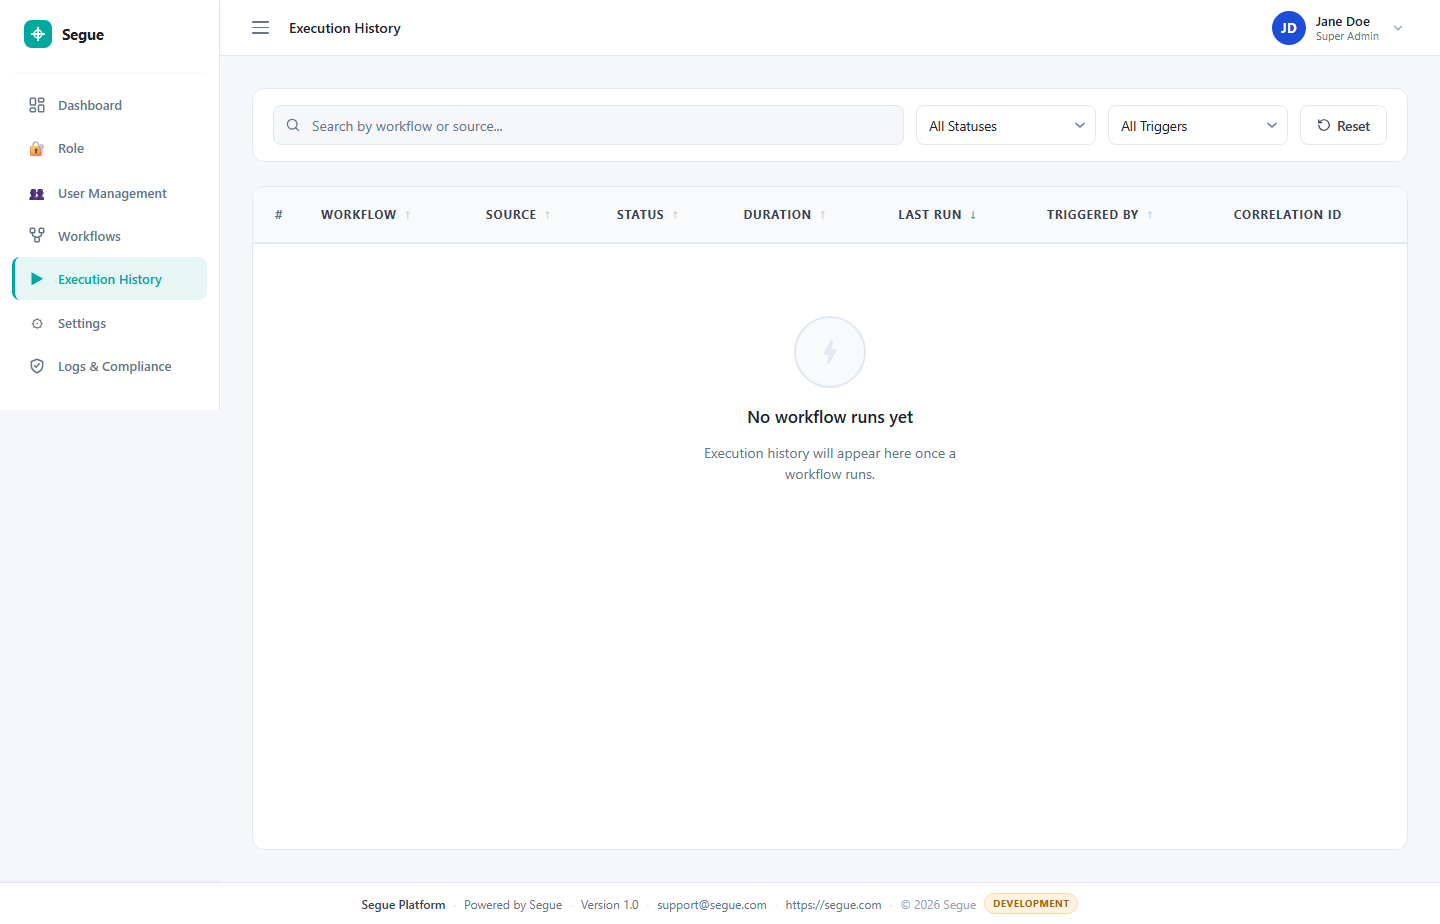
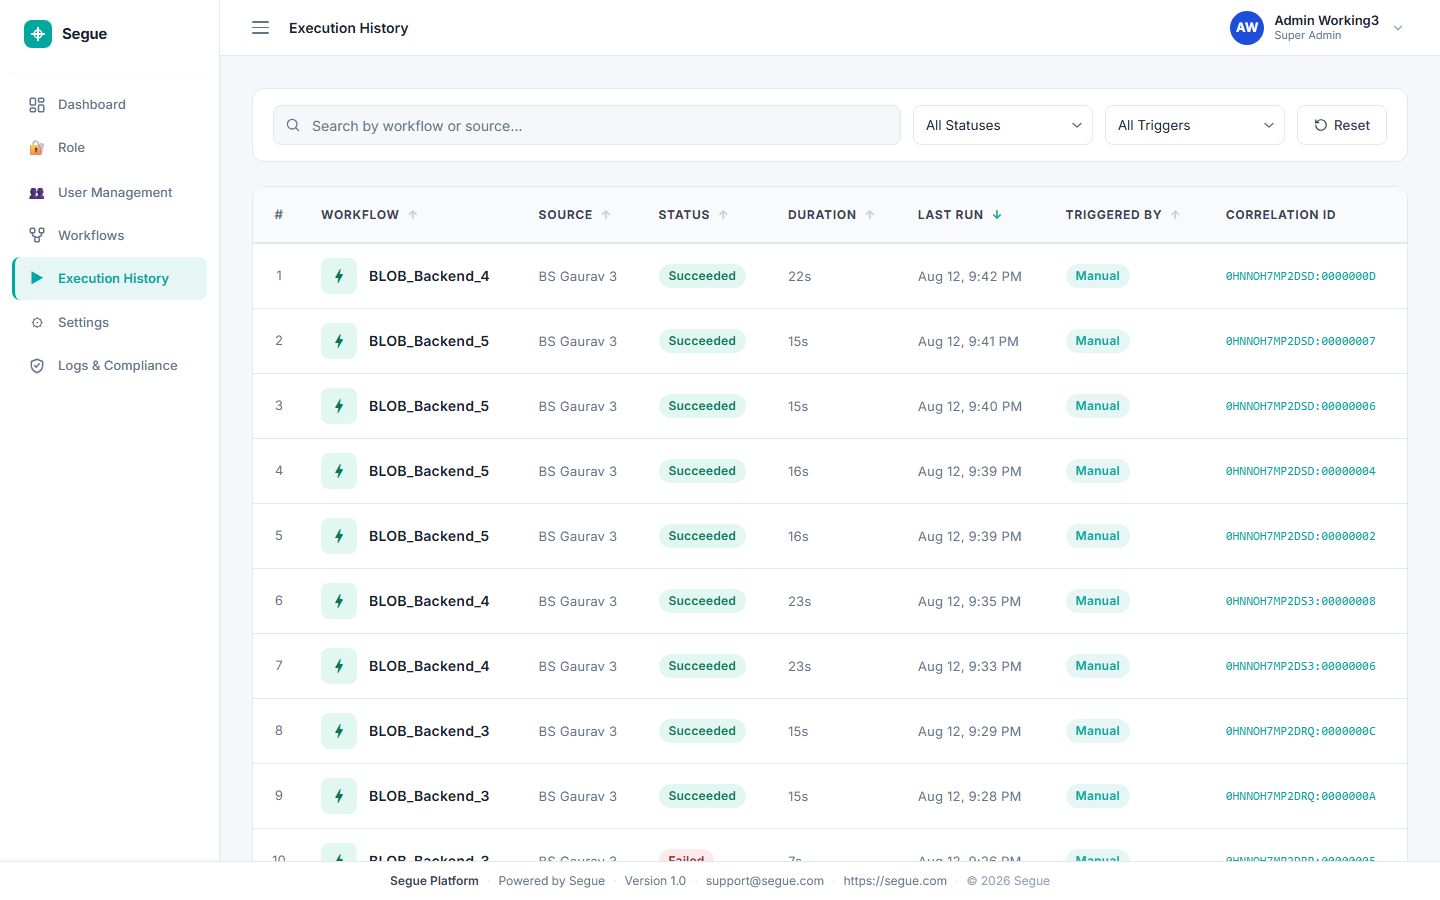
Expand user manual: table selection, two mapping methods, permissions
- Document picking an existing database table vs. creating a new one
  from the field-mapping canvas, with real screenshots of both flows.
- Clarify drag-and-drop and the Mapping list accordion as two
  equivalent ways to build a field mapping.
- Add a Roles & Permissions walkthrough of the per-role permission
  grid (Access Control / Workflows / Platform groups).
- Update the CSV destination chapter for the Email + Download link
  only delivery modes.
- Swap several empty-state screenshots for real populated data.

diff --git a/Documents/User-Manual.html b/Documents/User-Manual.html
@@ -512,6 +512,42 @@
     <li><strong>Load JSON payload</strong> — paste a real example FHIR record so the source tree reflects fields your actual data really uses, not just the generic shape.</li>
   </ul>
 
+  <h3 class="substep">Adding another table to map into</h3>
+  <p class="substep-sub">
+    The primary table for a data group is attached automatically (e.g. <code>dbo.Patient</code> for the
+    Patient group). If you need a <em>second</em> table — say, a child table for a repeating field — you
+    have two options, both under <strong>+ Add a table from your database…</strong> in the top-right of
+    the canvas.
+  </p>
+  <div class="shot-card">
+    <div class="shot-wrap">
+      <img src="user-manual-screenshots/57-add-existing-table-picker.png" alt="Add a table from your database picker, listing an existing table">
+    </div>
+    <p class="shot-caption">
+      <strong>Pick an existing table.</strong> Click <strong>+ Add a table from your database…</strong> to
+      open a searchable list of every other table Segue already found in your connected database (here,
+      <code>dbo.PatientObservation</code>) — pick one to bring it onto the canvas alongside the primary table.
+    </p>
+  </div>
+  <div class="shot-card">
+    <div class="shot-wrap">
+      <img src="user-manual-screenshots/58-existing-table-added.png" alt="Existing table added to the canvas as a second card">
+    </div>
+    <p class="shot-caption">The picked table appears as its own card, with its real columns already known — ready to map into immediately.</p>
+  </div>
+  <div class="shot-card">
+    <div class="shot-wrap">
+      <img src="user-manual-screenshots/59-create-new-table-modal.png" alt="Create a new destination table modal">
+    </div>
+    <p class="shot-caption">
+      <strong>Or create a brand-new table.</strong> From the same menu, choose <strong>Create a new
+      table…</strong>. Give it a name, say whether it's a standalone table or a <em>child of another
+      table already on the canvas</em> (Segue then adds the foreign-key column for you), and define its
+      starting columns. Like adding a column, nothing is created in the real database until you finish the
+      wizard.
+    </p>
+  </div>
+
   <h3 class="substep">Adding a new column</h3>
   <p class="substep-sub">Click <strong>+ Add column</strong> on the table panel.</p>
   <div class="shot-card">
@@ -532,30 +568,54 @@
     the real schema until then, so it's safe to experiment while mapping.
   </div>
 
+  <h3 class="substep">Two ways to build a mapping</h3>
+  <p class="substep-sub">
+    Every connection you draw between a source field and a destination column is called a
+    <strong>mapping</strong>. Segue gives you two ways to create one — use whichever feels more natural,
+    they end up creating the exact same kind of rule.
+  </p>
+  <div class="two-col">
+    <div class="shot-card">
+      <div class="shot-wrap">
+        <img src="user-manual-screenshots/25-array-mapping-created.png" alt="A field dragged from the payload tree onto a column">
+      </div>
+      <p class="shot-caption">
+        <strong>Option 1 — drag and drop.</strong> Drag a field (or a whole array group) straight from
+        the Payload tree on the left onto a column in the Table panel on the right. A dashed line
+        confirms the connection. Fastest for simple, one-to-one mappings and for the whole-array-to-JSON
+        mode described below.
+      </p>
+    </div>
+    <div class="shot-card">
+      <div class="shot-wrap">
+        <img src="user-manual-screenshots/32-mapping-list-two-rows.png" alt="Mapping list accordion showing mapped fields in a table">
+      </div>
+      <p class="shot-caption">
+        <strong>Option 2 — the Mapping list.</strong> Click the <strong>Mapping list</strong> bar at the
+        bottom of the canvas to expand a plain table of every rule created so far — source field(s), mode,
+        destination column, and instance selection, all in one place. No dragging required, and it's the
+        easiest way to review everything you've mapped at a glance.
+      </p>
+    </div>
+  </div>
+  <p class="substep-sub">
+    Click <strong>+ Add mapping</strong> inside that same accordion to build a rule from dropdowns instead
+    of dragging — the better choice when you want precise control over which array item to use, or want to
+    combine several array values into one field (see below):
+  </p>
+
   <h3 class="substep">Turning a repeating field into one column — three ways</h3>
   <p class="substep-sub">
     FHIR records are full of arrays (a list of "based on" references, several categories, multiple
     components). A single SQL column can't hold a list directly, so Segue gives you three ways to
-    flatten one down. Which one you want depends on the answer to: <em>"do I need every item, or just
-    one?"</em>
+    flatten one down, available from either method above. Which one you want depends on the answer to:
+    <em>"do I need every item, or just one?"</em>
   </p>
-
-  <div class="two-col">
-    <div class="shot-card">
-      <div class="shot-wrap">
-        <img src="user-manual-screenshots/25-array-mapping-created.png" alt="Whole array mapped as JSON">
-      </div>
-      <p class="shot-caption"><strong>Array → JSON.</strong> Drag the whole array group (e.g. <code>BasedOn</code>) straight onto a column — Segue tags it <strong>JSON</strong> and stores the entire list as one JSON-text string. Best when you need every item and every sub-field, and don't mind reading it back with a JSON query later.</p>
-    </div>
-    <div class="shot-card">
-      <div class="shot-wrap">
-        <img src="user-manual-screenshots/32-mapping-list-two-rows.png" alt="Mapping list with two rows">
-      </div>
-      <p class="shot-caption">The <strong>Mapping list</strong> at the bottom of the canvas is the plain-English record of every rule you've created — source field(s), mode, destination column, and instance selection, all in one table.</p>
-    </div>
-  </div>
-
-  <p class="substep-sub">Click <strong>+ Add mapping</strong> to build a rule by hand instead of dragging:</p>
+  <ul class="plain-legend">
+    <li><strong>Array → JSON</strong> — drag the whole array group onto a column (see Option 1 above); Segue tags it <strong>JSON</strong> and stores the entire list as one JSON-text string. Best when you need every item and every sub-field, and don't mind reading it back with a JSON query later.</li>
+    <li><strong>Array → single record</strong> — map one specific leaf field with Instance set to <em>First</em>, <em>Nth</em>, or <em>Criteria</em> (see the Instance Selection table below). Only that one item is used.</li>
+    <li><strong>Array → comma-separated</strong> — map a leaf field with Instance set to <em>All records</em> and check <strong>combine as one delimited row</strong>. Every value is joined into one string in a single column.</li>
+  </ul>
   <div class="shot-card">
     <div class="shot-wrap">
       <img src="user-manual-screenshots/30-add-mapping-instance-options.png" alt="Add mapping form with Instance dropdown open">
@@ -614,43 +674,59 @@
   </p>
   <div class="shot-card">
     <div class="shot-wrap">
-      <img src="user-manual-screenshots/35-csv-destination-step1.png" alt="CSV configuration form">
+      <img src="user-manual-screenshots/35-csv-destination-step1.png" alt="CSV configuration form, Download link mode">
       <div class="badge" style="left:17.6%; top:31.8%;">1</div>
       <div class="badge" style="left:17.6%; top:43%;">2</div>
       <div class="badge" style="left:52.6%; top:43%;">3</div>
-      <div class="badge" style="left:17.6%; top:55.75%;">4</div>
-      <div class="badge" style="left:17.6%; top:64.1%;">5</div>
-      <div class="badge" style="left:52.6%; top:64.1%;">6</div>
+      <div class="badge" style="left:17.6%; top:51.4%;">4</div>
+      <div class="badge" style="left:17.6%; top:59.7%;">5</div>
+      <div class="badge" style="left:52.6%; top:59.7%;">6</div>
+      <div class="badge" style="left:17.6%; top:68%;">7</div>
     </div>
   </div>
   <table class="legend">
     <tr><th class="num">#</th><th>Field</th><th>What it is</th></tr>
     <tr><td class="num"><span class="num-badge">1</span></td><td class="field-name">Existing CSV connection</td><td class="field-desc">Reuse a previously configured CSV destination instead of starting over.</td></tr>
     <tr><td class="num"><span class="num-badge">2</span></td><td class="field-name">Destination name</td><td class="field-desc">A label for this connection.</td></tr>
-    <tr><td class="num"><span class="num-badge">3</span></td><td class="field-name">Delivery mode</td><td class="field-desc">How the file reaches you: <em>Download</em> (only works when triggered manually — not on a schedule), <em>Email</em>, <em>SFTP</em>, or <em>Download link</em>.</td></tr>
+    <tr><td class="num"><span class="num-badge">3</span></td><td class="field-name">Delivery mode</td><td class="field-desc">How the file reaches you — only two choices are enabled in this deployment: <strong>Email</strong> or <strong>Download link</strong> (see below for what each means).</td></tr>
     <tr><td class="num"><span class="num-badge">4</span></td><td class="field-name">File name pattern</td><td class="field-desc">A template for the generated file's name — <code>{resource}</code> and date/time placeholders get filled in automatically, e.g. <code>Patient_20260813_113000.csv</code>.</td></tr>
     <tr><td class="num"><span class="num-badge">5</span></td><td class="field-name">Delimiter</td><td class="field-desc">Comma is the CSV default — change it if whatever will read this file expects something else (tab, semicolon, pipe).</td></tr>
     <tr><td class="num"><span class="num-badge">6</span></td><td class="field-name">Encoding</td><td class="field-desc">UTF-8 covers virtually every case, including non-English characters in names/addresses.</td></tr>
+    <tr><td class="num"><span class="num-badge">7</span></td><td class="field-name">Link expiry (minutes)</td><td class="field-desc">Only shown for <strong>Download link</strong> mode (see below) — how long the generated link stays valid before it stops working.</td></tr>
   </table>
 
-  <p class="substep-sub">Choosing <strong>SFTP</strong> as the delivery mode reveals where to actually send the file:</p>
+  <div class="two-col">
+    <div class="shot-card">
+      <p class="shot-caption" style="margin-top:0;">
+        <strong>Download link.</strong> After the run finishes, Segue generates a secure, time-limited
+        link to download the file — good when someone just needs to grab the file manually, without
+        managing a mailbox or an SFTP account. Set how long the link should stay valid in
+        <strong>Link expiry (minutes)</strong>.
+      </p>
+    </div>
+    <div class="shot-card">
+      <p class="shot-caption" style="margin-top:0;">
+        <strong>Email.</strong> The file is attached to (or linked from) an email sent automatically when
+        the run finishes — good for recurring, scheduled exports where someone just needs it to land in
+        their inbox. See the recipient/subject/body fields below.
+      </p>
+    </div>
+  </div>
+
+  <p class="substep-sub">Choosing <strong>Email</strong> as the delivery mode reveals who receives it and what it says:</p>
   <div class="shot-card">
     <div class="shot-wrap">
-      <img src="user-manual-screenshots/36-csv-destination-sftp-fields.png" alt="CSV SFTP delivery fields">
+      <img src="user-manual-screenshots/60-csv-email-fields.png" alt="CSV email delivery fields">
       <div class="badge" style="left:17.6%; top:68%;">1</div>
-      <div class="badge" style="left:52.6%; top:68%;">2</div>
-      <div class="badge" style="left:17.6%; top:76.4%;">3</div>
-      <div class="badge" style="left:52.6%; top:76.4%;">4</div>
-      <div class="badge" style="left:17.6%; top:84.7%;">5</div>
+      <div class="badge" style="left:17.6%; top:76.4%;">2</div>
+      <div class="badge" style="left:17.6%; top:84.7%;">3</div>
     </div>
   </div>
   <table class="legend">
-    <tr><th class="num">#</th><th>Field</th><th>What it is / where to get it</th></tr>
-    <tr><td class="num"><span class="num-badge">1</span></td><td class="field-name">SFTP host</td><td class="field-desc">The address of the SFTP server you're delivering to — from whoever owns that server.</td></tr>
-    <tr><td class="num"><span class="num-badge">2</span></td><td class="field-name">Port</td><td class="field-desc">Defaults to <code>22</code>, the standard SFTP port.</td></tr>
-    <tr><td class="num"><span class="num-badge">3</span></td><td class="field-name">Username</td><td class="field-desc">The SFTP account name you were given.</td></tr>
-    <tr><td class="num"><span class="num-badge">4</span></td><td class="field-name">Password</td><td class="field-desc">That account's password — stored encrypted.</td></tr>
-    <tr><td class="num"><span class="num-badge">5</span></td><td class="field-name">Remote folder</td><td class="field-desc">The folder path on that server to drop files into, e.g. <code>/incoming/segue</code>.</td></tr>
+    <tr><th class="num">#</th><th>Field</th><th>What it is</th></tr>
+    <tr><td class="num"><span class="num-badge">1</span></td><td class="field-name">Recipient(s)</td><td class="field-desc">Required — one or more email addresses, comma-separated, e.g. <code>alice@company.com, bob@company.com</code>.</td></tr>
+    <tr><td class="num"><span class="num-badge">2</span></td><td class="field-name">Cc</td><td class="field-desc">Optional — additional addresses copied on the same email.</td></tr>
+    <tr><td class="num"><span class="num-badge">3</span></td><td class="field-name">Subject template / Body template</td><td class="field-desc">The email's subject and message. Placeholders like <code>{{RouteName}}</code>, <code>{{RunDate}}</code>, and <code>{{RowCount}}</code> get filled in automatically for each run.</td></tr>
   </table>
   <p class="substep-sub">Steps 2–4 (Data groups, Map fields, Review) work identically to the SQL Server walkthrough above.</p>
 </section>
@@ -679,9 +755,9 @@
 
   <div class="shot-card">
     <div class="shot-wrap">
-      <img src="user-manual-screenshots/40-mapping-profiles-list.png" alt="Mapping Profiles admin list, empty state">
+      <img src="user-manual-screenshots/40-mapping-profiles-list.png" alt="Mapping Profiles admin list">
     </div>
-    <p class="shot-caption"><strong>Mapping Profiles</strong> — a saved, reusable field-mapping (source → target object → field list) that can be applied to more than one pipeline, so you don't have to redraw the same mapping twice.</p>
+    <p class="shot-caption"><strong>Mapping Profiles</strong> — a saved, reusable field-mapping (source → target object → field list) that can be applied to more than one pipeline, so you don't have to redraw the same mapping twice. Each row here shows its resource type, source, destination, target table, and field count.</p>
   </div>
 
   <div class="shot-card">
@@ -806,6 +882,29 @@
     <li><strong>Audit</strong> — read-only access to configuration and audit logs, for compliance review.</li>
   </ul>
   <p class="shot-caption">Click <strong>+ Add Role</strong> to define a custom role with its own hand-picked set of permissions if none of the built-in ones fit.</p>
+
+  <h3 class="substep">Setting exactly what a role can do</h3>
+  <p class="substep-sub">
+    Click the 🔑 key icon in a role's row to open its permission grid — every individual permission this
+    deployment knows about, grouped by area, with a checkbox per action.
+  </p>
+  <div class="shot-card">
+    <div class="shot-wrap">
+      <img src="user-manual-screenshots/56-permissions-grid-full.png" alt="Role permissions grid grouped by Access Control, Workflows, and Platform">
+    </div>
+    <p class="shot-caption">The permissions screen for the built-in <strong>Admin</strong> role — 32 of 40 total permissions selected.</p>
+  </div>
+  <ul class="plain-legend">
+    <li><strong>Groups (left column)</strong> — permissions are organized by area: <strong>Access Control</strong> (managing Roles/Users themselves), <strong>Workflows</strong> (broken down further by EHR vendor — Epic, Cerner, Athenahealth, etc. — so a role can be scoped to just one vendor's connections), and <strong>Platform</strong> (Configuration, Governance, Payload, Pipeline, Report, Source Connections, Workflow).</li>
+    <li><strong>Columns</strong> — the specific action within that group: Create, Edit, Delete, Assign, Invite, Deactivate, View, Read, Write, Run, Test, Execute, or <strong>All</strong> as a shortcut for every action in that row.</li>
+    <li><strong>System roles cannot be modified</strong> — the four built-in roles (SuperAdmin, Admin, Operations, Audit) are locked; to get a different mix of permissions, create a new custom role via <strong>+ Add Role</strong> and it opens here fully editable.</li>
+    <li><strong>Switch Role</strong> (top right) — jump straight to another role's permission grid without going back to the list first.</li>
+  </ul>
+  <div class="note">
+    <strong>This grid grows over time.</strong> The 40 permissions shown here are what's defined today —
+    as more of the platform gets wired up to fine-grained access control, new rows will appear in the
+    relevant group automatically. Nothing about how you use this screen changes.
+  </div>
 </section>
 
 <section class="chapter" id="history-logs">
@@ -814,9 +913,9 @@
 
   <div class="shot-card">
     <div class="shot-wrap">
-      <img src="user-manual-screenshots/52-execution-history-empty.png" alt="Execution History empty state">
+      <img src="user-manual-screenshots/52-execution-history-empty.png" alt="Execution History list showing past pipeline runs">
     </div>
-    <p class="shot-caption"><strong>Execution History</strong> — every time a pipeline ran, its status, how long it took, and what/who triggered it. Filter by status or trigger type to find a specific run quickly.</p>
+    <p class="shot-caption"><strong>Execution History</strong> — every time a pipeline ran, its status, how long it took, and what/who triggered it. Filter by status or trigger type to find a specific run quickly, or search by workflow/source name.</p>
   </div>
 
   <div class="shot-card">
